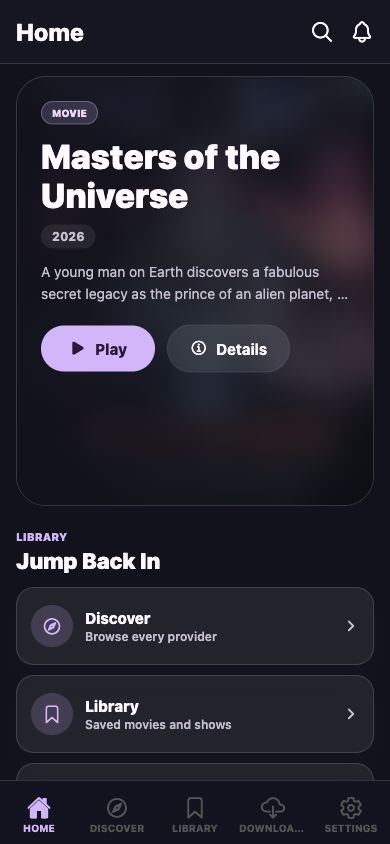
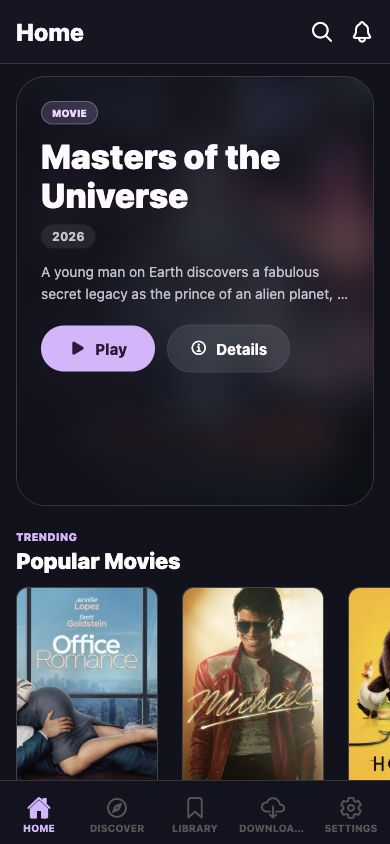
fix(mobile): render home rail posters

Changed region(s): [[0.0308, 0.6161, 0.8308, 0.9242], [0.8615, 0.6777, 1.0, 0.9242]]

diff --git a/apps/mobile/app/(tabs)/index.tsx b/apps/mobile/app/(tabs)/index.tsx
@@ -35,13 +35,6 @@ import { HomeHeroBanner } from "../../components/catalog/HomeHeroBanner";
 import { CatalogItemCard } from "../../components/catalog/CatalogItemCard";
 import { CatalogRow } from "../../components/catalog/CatalogRow";
 
-type HomeShortcut = {
-  label: string;
-  detail: string;
-  icon: keyof typeof Ionicons.glyphMap;
-  route: string;
-};
-
 function flattenCatalogPages(data: any): MetaPreview[] {
   return (
     data?.pages.flatMap(
@@ -141,87 +134,6 @@ function HomeRail({
         ListFooterComponent={<View style={styles.railEndSpacer} />}
       />
       <View style={[styles.railDivider, { backgroundColor: colors.border }]} />
-    </View>
-  );
-}
-
-function HomeShortcuts() {
-  const router = useRouter();
-  const { t } = useTranslation();
-  const { colors, isDark } = useTheme();
-
-  const shortcuts: HomeShortcut[] = [
-    {
-      label: t("tabs.discover"),
-      detail: t("home.shortcuts.discoverDetail"),
-      icon: "compass-outline",
-      route: "/discover",
-    },
-    {
-      label: t("tabs.library"),
-      detail: t("home.shortcuts.libraryDetail"),
-      icon: "bookmark-outline",
-      route: "/library",
-    },
-    {
-      label: t("tabs.downloads"),
-      detail: t("home.shortcuts.downloadsDetail"),
-      icon: "cloud-download-outline",
-      route: "/downloads",
-    },
-  ];
-
-  return (
-    <View style={styles.shortcutSection}>
-      <SectionHeader
-        eyebrow="LIBRARY"
-        title={t("home.sections.libraryShortcuts")}
-      />
-      <View style={styles.shortcutGrid}>
-        {shortcuts.map((shortcut) => (
-          <Pressable
-            key={shortcut.route}
-            style={({ pressed }: any) => [
-              styles.shortcutCard,
-              {
-                backgroundColor: isDark
-                  ? "rgba(255,255,255,0.07)"
-                  : "rgba(255,255,255,0.72)",
-                borderColor: colors.border,
-                transform: [{ scale: pressed ? 0.98 : 1 }],
-              },
-            ]}
-            onPress={() => router.push(shortcut.route as any)}
-            accessibilityRole="button"
-            accessibilityLabel={shortcut.label}
-          >
-            <View
-              style={[
-                styles.shortcutIcon,
-                { backgroundColor: colors.tint + (isDark ? "2E" : "18") },
-              ]}
-            >
-              <Ionicons name={shortcut.icon} size={20} color={colors.tint} />
-            </View>
-            <View style={styles.shortcutCopy}>
-              <Text style={[styles.shortcutTitle, { color: colors.text }]}>
-                {shortcut.label}
-              </Text>
-              <Text
-                style={[styles.shortcutDetail, { color: colors.textSecondary }]}
-                numberOfLines={1}
-              >
-                {shortcut.detail}
-              </Text>
-            </View>
-            <Ionicons
-              name="chevron-forward"
-              size={16}
-              color={colors.textSecondary}
-            />
-          </Pressable>
-        ))}
-      </View>
     </View>
   );
 }
@@ -403,8 +315,6 @@ function HomeContent() {
 
       <ContinueWatchingRow />
 
-      <HomeShortcuts />
-
       <HomeRail
         testID="home-popular-movies"
         eyebrow="TRENDING"
@@ -494,45 +404,6 @@ const styles = StyleSheet.create({
   sectionActionText: {
     fontSize: 13,
     fontWeight: "800",
-  },
-  shortcutSection: {
-    marginBottom: 28,
-  },
-  shortcutGrid: {
-    paddingHorizontal: 16,
-    gap: 10,
-  },
-  shortcutCard: {
-    minHeight: 78,
-    borderRadius: 18,
-    borderWidth: 1,
-    padding: 14,
-    flexDirection: "row",
-    alignItems: "center",
-    gap: 12,
-    ...(Platform.OS === "web"
-      ? { boxShadow: "0 16px 34px rgba(44, 34, 54, 0.10)" }
-      : {}),
-  } as any,
-  shortcutIcon: {
-    width: 42,
-    height: 42,
-    borderRadius: 21,
-    alignItems: "center",
-    justifyContent: "center",
-  },
-  shortcutCopy: {
-    flex: 1,
-    minWidth: 0,
-  },
-  shortcutTitle: {
-    fontSize: 15,
-    fontWeight: "800",
-  },
-  shortcutDetail: {
-    marginTop: 3,
-    fontSize: 12,
-    fontWeight: "600",
   },
   railContainer: {
     marginBottom: 26,

diff --git a/apps/mobile/components/catalog/CatalogItemCard.tsx b/apps/mobile/components/catalog/CatalogItemCard.tsx
@@ -2,7 +2,6 @@ import React, { memo, useCallback } from "react";
 import { View, Text, Pressable, Platform, StyleSheet } from "react-native";
 import { useRouter } from "expo-router";
 import type { MetaPreview } from "@streamer/shared";
-import Animated, { FadeIn } from "react-native-reanimated";
 import { WatchProgressBar } from "../ui/WatchProgressBar";
 import { hapticImpactLight } from "../../lib/haptics";
 import { useTheme } from "../../hooks/useTheme";
@@ -11,7 +10,6 @@ import { Image } from "expo-image";
 import { useWebPressableActivation } from "../../hooks/useWebPressableActivation";
 
 const isWeb = Platform.OS === "web";
-const AnimatedExpoImage = Animated.createAnimatedComponent(Image);
 
 function CatalogCardInner({
   item,
@@ -59,15 +57,12 @@ function CatalogCardInner({
     >
       <View style={styles.imageWrapper}>
         {!imageError ? (
-          <AnimatedExpoImage
+          <Image
             source={item.poster}
             style={styles.cardImage}
             transition={300}
             contentFit="cover"
             cachePolicy="memory-disk"
-            // @ts-ignore
-            sharedTransitionTag={`poster-${item.id}`}
-            entering={FadeIn.duration(300)}
             onError={() => setImageError(true)}
           />
         ) : (